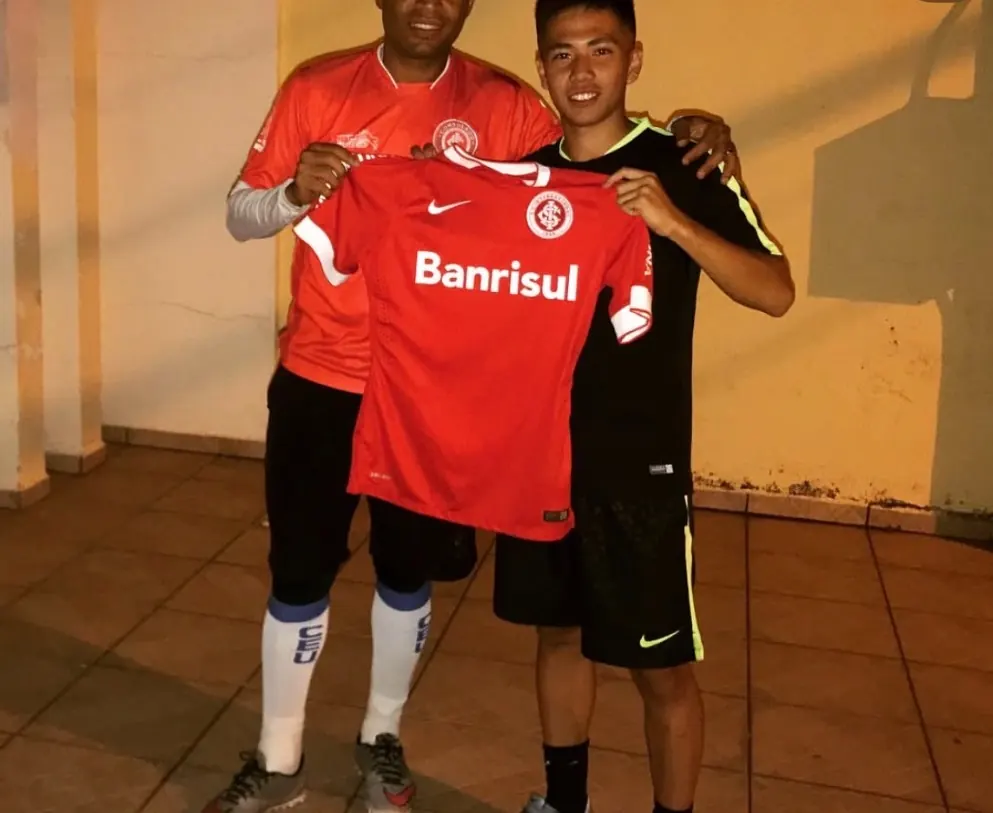
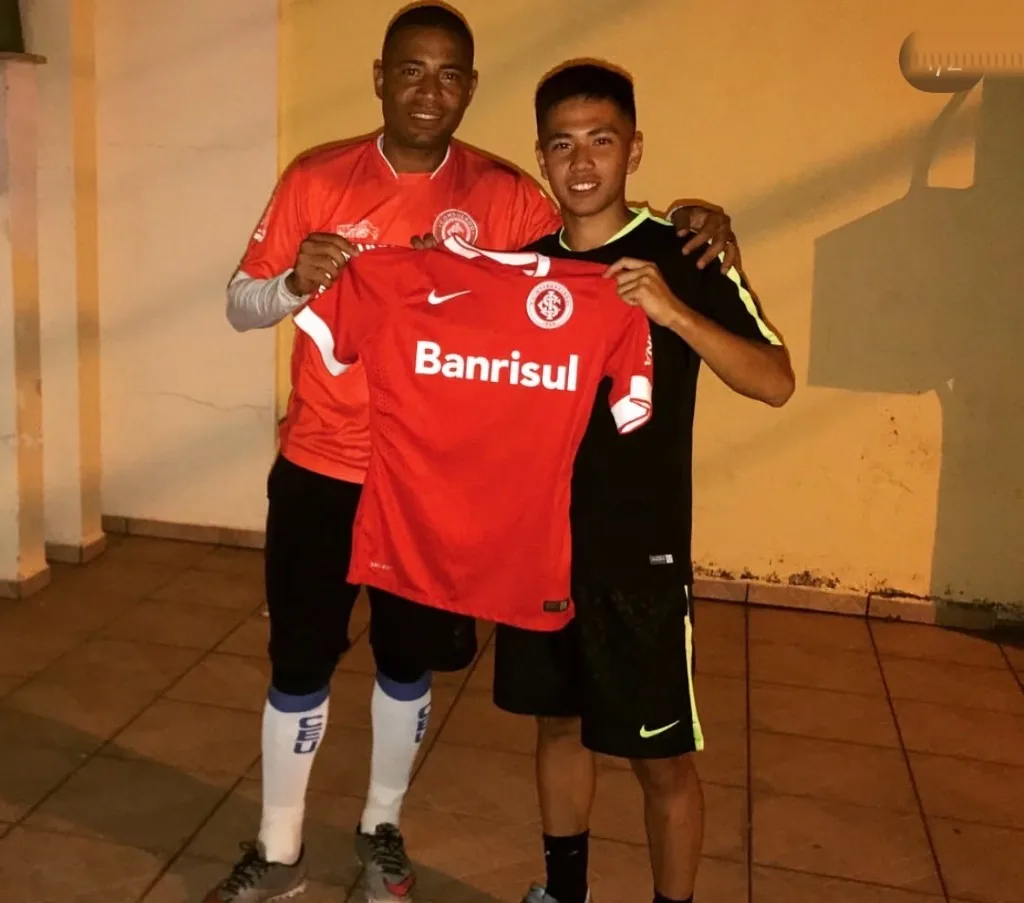
fix: 現地ネットワークスライダーの人物顔切れを修正
各写真にCSS object-positionを個別設定し、スマホのアスペクト比を緩和。ウェリントン写真は右上の1/2のみ除去。

diff --git a/app/lib/local-network.ts b/app/lib/local-network.ts
@@ -2,7 +2,7 @@ export type LocalNetworkSlide = {
   src: string;
   alt: string;
   caption: string;
-  /** Tailwind object-position utilities */
+  /** CSS object-position 値（例: "center top"） */
   objectPosition: string;
 };
 
@@ -12,43 +12,43 @@ export const LOCAL_NETWORK_SLIDES: LocalNetworkSlide[] = [
     src: "/images/local-network/01-paulo-miranda-partnership.webp",
     alt: "Academia de Futebol Paulo Mirandaの関係者との記念写真",
     caption: "Academia de Futebol Paulo Miranda｜提携クラブとの継続的な連携",
-    objectPosition: "object-[center_35%]",
+    objectPosition: "center 28%",
   },
   {
     src: "/images/local-network/02-apafut-trust.webp",
     alt: "APAFUT関係者との交流写真",
     caption: "APAFUT｜提携クラブとの信頼関係",
-    objectPosition: "object-[center_22%]",
+    objectPosition: "center top",
   },
   {
     src: "/images/local-network/03-wellington-advisor.webp",
     alt: "ウェリントン・モンテイロとの交流写真",
     caption: "ウェリントン・モンテイロ｜長年交流を続けるスペシャルアドバイザー",
-    objectPosition: "object-[center_25%]",
+    objectPosition: "center top",
   },
   {
     src: "/images/local-network/04-santos-player-1.webp",
     alt: "Santos FC所属選手との交流写真",
     caption: "ブラジルサッカー界で築いてきた交流｜Santos FC所属選手と",
-    objectPosition: "object-[center_20%]",
+    objectPosition: "center top",
   },
   {
     src: "/images/local-network/05-apafut-facility.webp",
     alt: "APAFUTの施設を現地で確認する様子",
     caption: "APAFUT｜育成環境を現地で確認",
-    objectPosition: "object-[center_28%]",
+    objectPosition: "center 22%",
   },
   {
     src: "/images/local-network/06-paulo-miranda-exchange.webp",
     alt: "Academia de Futebol Paulo Mirandaの現地関係者との交流",
     caption: "Academia de Futebol Paulo Miranda｜現地関係者との交流",
-    objectPosition: "object-[center_30%]",
+    objectPosition: "center top",
   },
   {
     src: "/images/local-network/07-santos-player-2.webp",
     alt: "Santos FC所属選手との交流写真",
     caption: "ブラジルサッカー界で築いてきた交流｜Santos FC所属選手と",
-    objectPosition: "object-[center_22%]",
+    objectPosition: "center top",
   },
 ];
 

diff --git a/app/components/LocalNetworkSlider.tsx b/app/components/LocalNetworkSlider.tsx
@@ -106,14 +106,16 @@ export default function LocalNetworkSlider() {
                   style={{ width: `${100 / visible}%` }}
                 >
                   <div className="ps-card h-full overflow-hidden p-0">
-                    <div className="relative aspect-[4/3] w-full overflow-hidden bg-[#F8F9FB]">
+                    {/* スマホは顔優先でやや縦長、PCは横並び用の 4:3 */}
+                    <div className="relative aspect-[5/4] w-full overflow-hidden bg-[#F8F9FB] sm:aspect-[4/3]">
                       <Image
                         src={slide.src}
                         alt={slide.alt}
                         fill
                         sizes="(max-width: 768px) 100vw, (max-width: 1024px) 50vw, 33vw"
                         loading="lazy"
-                        className={`object-cover ${slide.objectPosition}`}
+                        className="object-cover"
+                        style={{ objectPosition: slide.objectPosition ?? "center center" }}
                       />
                     </div>
                     <p className="px-4 py-3.5 text-xs leading-5 font-semibold text-[#14213D]/80 sm:px-5 sm:text-sm sm:leading-6">
